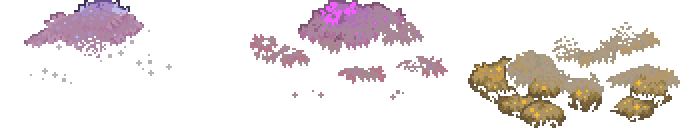
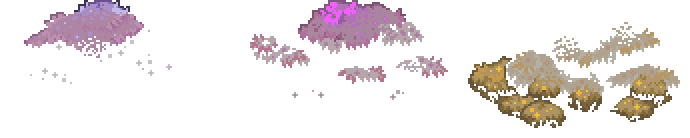
improve scaretree glow mask, hide dhampir on non-salt worlds

diff --git a/Common/ModCompat/Spooky/DhampirBounty.cs b/Common/ModCompat/Spooky/DhampirBounty.cs
@@ -1,7 +1,9 @@
 using SpiritReforged.Common.ItemCommon;
+using SpiritReforged.Common.WorldGeneration.Ecotones;
 using SpiritReforged.Content.Crossmod.Spooky.Items;
 using SpiritReforged.Content.Crossmod.Spooky.Items.Pets;
 using SpiritReforged.Content.Crossmod.Spooky.Tiles;
+using SpiritReforged.Content.SaltFlats;
 using Terraria.DataStructures;
 
 namespace SpiritReforged.Common.ModCompat.Spooky;
@@ -24,7 +26,8 @@ internal class DhampirBounty : SpookyBounty
 		Asset<Texture2D> tex = ModContent.Request<Texture2D>("SpiritReforged/Common/ModCompat/Spooky/DhampirBounty");
 		spooky.Call("EyeQuest", SpiritReforgedMod.Instance, "DhampirBounty", tex, () => Active, (Action<bool>)OnActivate, 
 			() => Main.LocalPlayer.HasItem(ModContent.ItemType<DhampirCompletionItem>()), () => Complete, MapDialogue(DialogueType.Encounter), 
-			MapDialogue(DialogueType.Recover), MapDialogue(DialogueType.Complete), (Action)OnComplete);
+			MapDialogue(DialogueType.Recover), MapDialogue(DialogueType.Complete), (Action)OnComplete, null, 
+			() => !EcotoneSurfaceMapping.ContainsEcotone<SaltFlatsEcotone>());
 	}
 
 	private static void OnActivate(bool recover)
